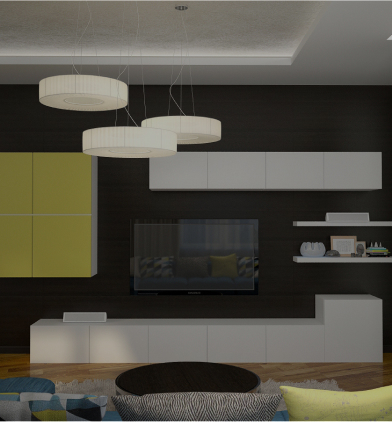
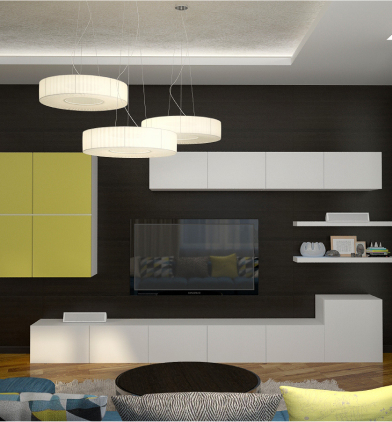
feat: pixel perfect for design & types sections

diff --git a/docs/index.html b/docs/index.html
@@ -163,7 +163,9 @@
         <div class="row">
           <div class="col">
             <div class="card design__card">
-              <img src="img/design/design-1.jpg" alt="Минимальный" class="card__img">
+              <div class="design__img">
+                <img src="img/design/design-1.jpg" alt="Минимальный" class="card__img">
+              </div>
               <div class="card__text">
                 <h3 class="card__title">Минимальный</h3>
                 <!-- /.card__title -->
@@ -183,7 +185,9 @@
           <!-- /.col -->
           <div class="col">
             <div class="card design__card">
-              <img src="img/design/design-2.jpg" alt="Стандартный" class="card__img">
+              <div class="design__img">
+                <img src="img/design/design-2.jpg" alt="Стандартный" class="card__img">
+              </div>
               <div class="card__text">
                 <h3 class="card__title">Стандартный</h3>
                 <!-- /.card__title -->
@@ -206,7 +210,9 @@
           <!-- /.col -->
           <div class="col">
             <div class="card design__card">
-              <img src="img/design/design-3.jpg" alt="Полный" class="card__img">
+              <div class="design__img">
+                <img src="img/design/design-3.jpg" alt="Полный" class="card__img">
+              </div>
               <div class="card__text">
                 <h3 class="card__title">Полный</h3>
                 <!-- /.card__title -->

diff --git a/docs/css/style.css b/docs/css/style.css
@@ -536,7 +536,7 @@ img {
   justify-content: space-between; }
 
 .col {
-  flex-basis: 32%; }
+  flex-basis: 31%; }
 
 .card__text {
   position: relative;
@@ -582,6 +582,18 @@ img {
 .design__pricetag {
   padding: 1.214rem 5.5rem 1.214rem 2.36rem; }
 
+.design__img {
+  position: relative;
+  display: flex; }
+  .design__img::before {
+    content: '';
+    position: absolute;
+    top: 0;
+    left: 0;
+    width: 100%;
+    height: 100%;
+    background-color: rgba(0, 0, 0, 0.3); }
+
 @media screen and (max-width: 1270px) {
   .nav__item {
     margin-right: 1.5rem; } }
@@ -619,6 +631,8 @@ img {
       color: #ffffff; }
     .design__list .card__item:nth-child(7)::after {
       content: ' ...'; }
+    .design__img::before {
+      display: none; }
   .card__text {
     margin-left: 0; }
   .card__pricetag {

diff --git a/docs/sass/templates/_design.scss b/docs/sass/templates/_design.scss
@@ -9,4 +9,17 @@
   &__pricetag {
     padding: 1.214rem 5.5rem 1.214rem 2.36rem;
   }
+  &__img {
+    position: relative;
+    display: flex;
+    &::before {
+      content: '';
+      position: absolute;
+      top: 0;
+      left: 0;
+      width: 100%;
+      height: 100%;
+      background-color: rgba(0, 0, 0, 0.3);
+    }
+  }
 }

diff --git a/docs/sass/templates/_types.scss b/docs/sass/templates/_types.scss
@@ -11,7 +11,7 @@
 }
 
 .col {
-  flex-basis: 32%;
+  flex-basis: 31%;
 }
 
 .card {
@@ -40,7 +40,7 @@
     color: $secondary;
     margin-bottom: 2.5rem;
   }
-  
+
   &__pricetag {
     position: absolute;
     left: 0;

diff --git a/docs/sass/_media.scss b/docs/sass/_media.scss
@@ -61,6 +61,11 @@
         content: ' ...';
       }
     }
+    &__img {
+      &::before {
+        display: none;
+      }
+    }
   }
 
   .card {
